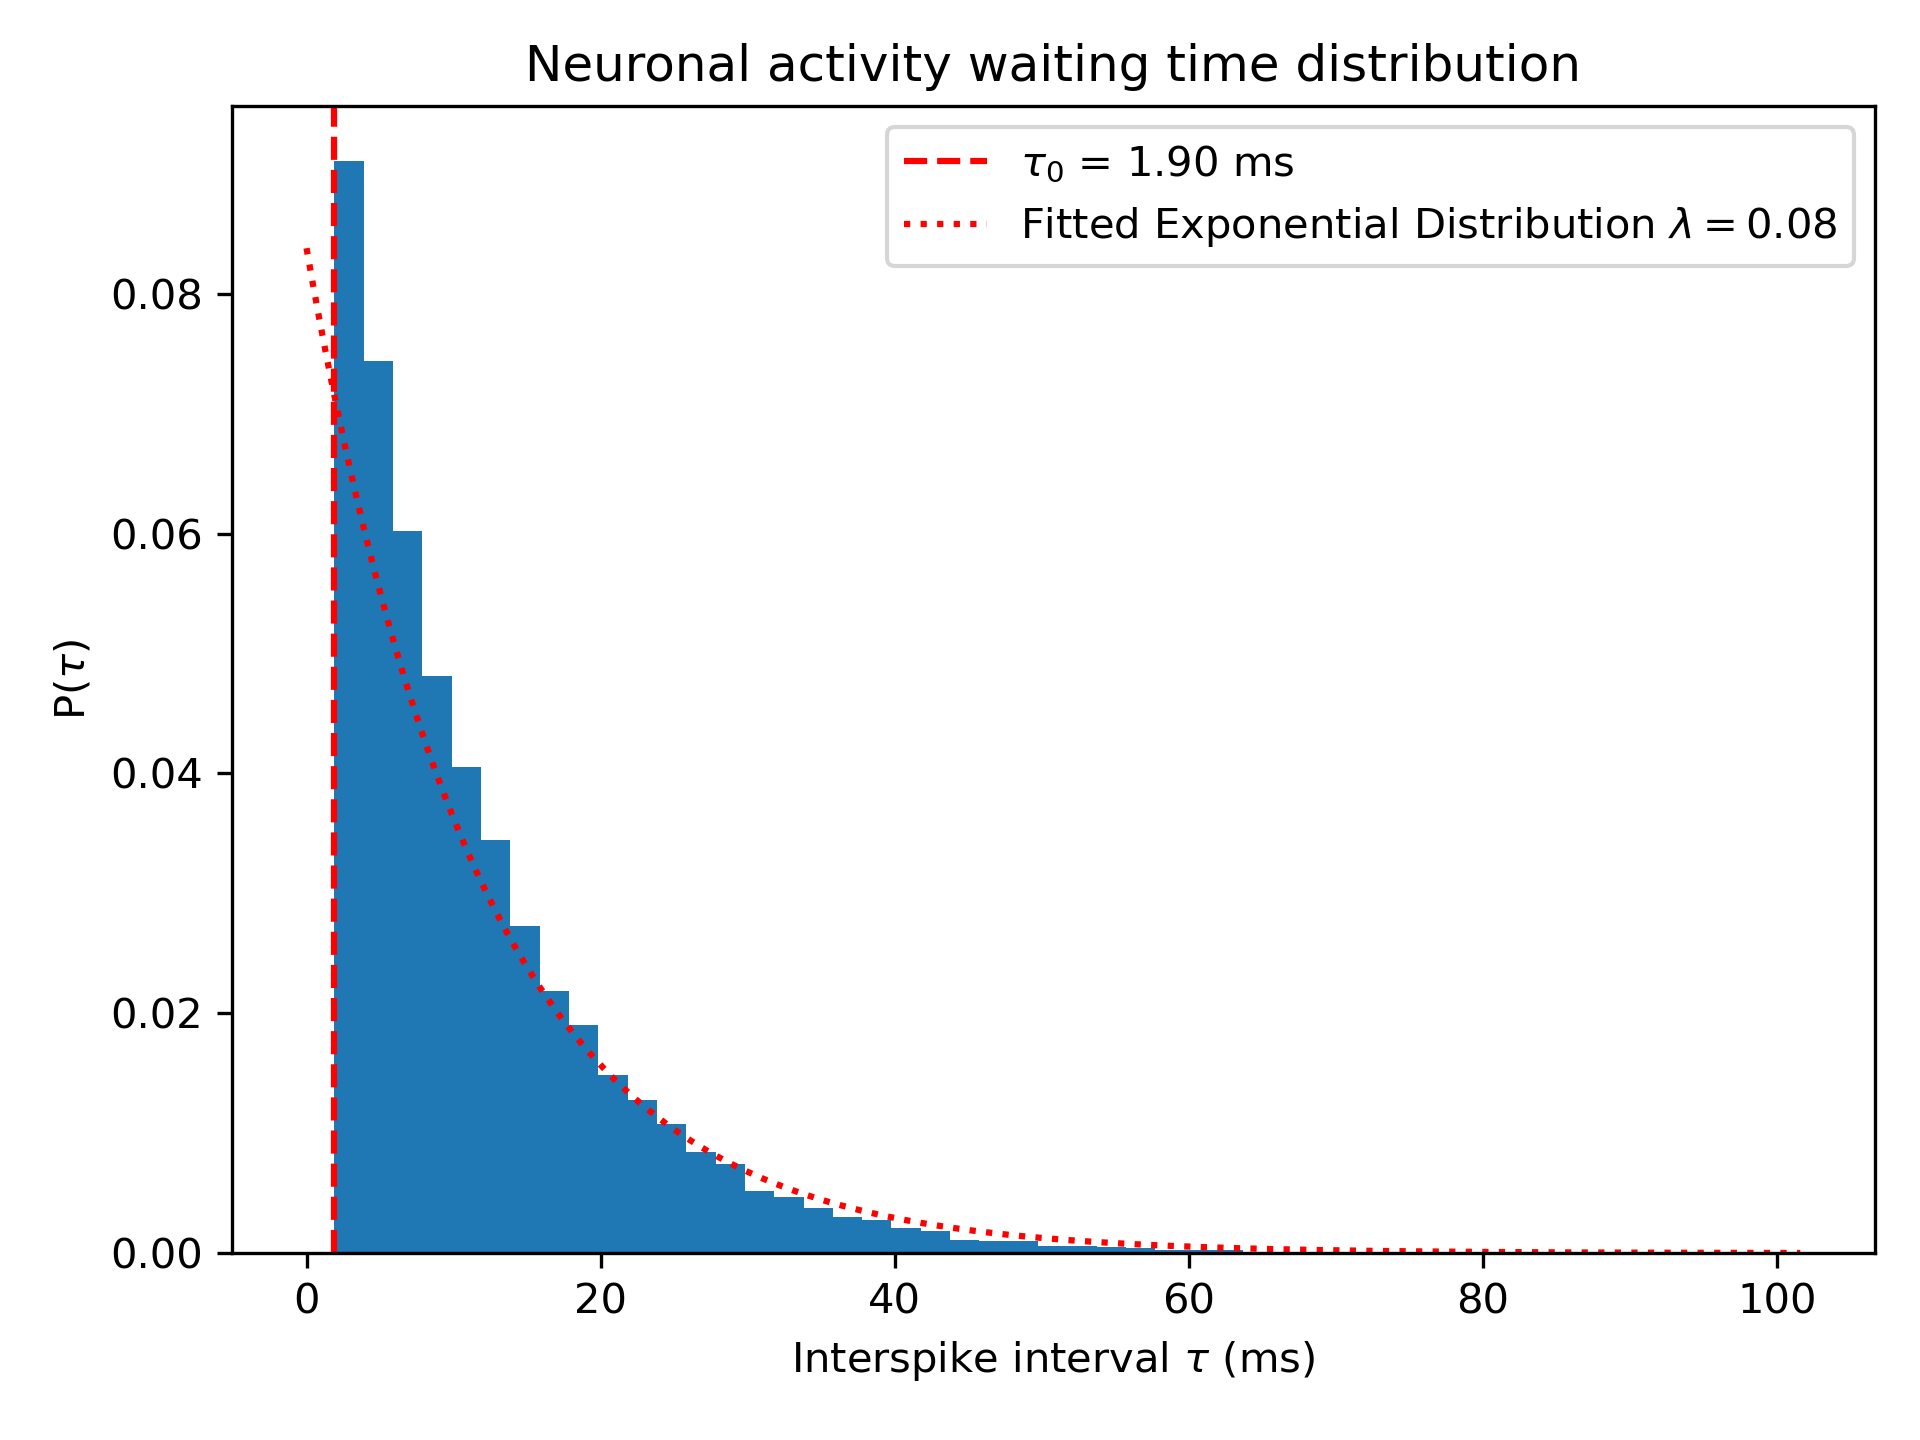
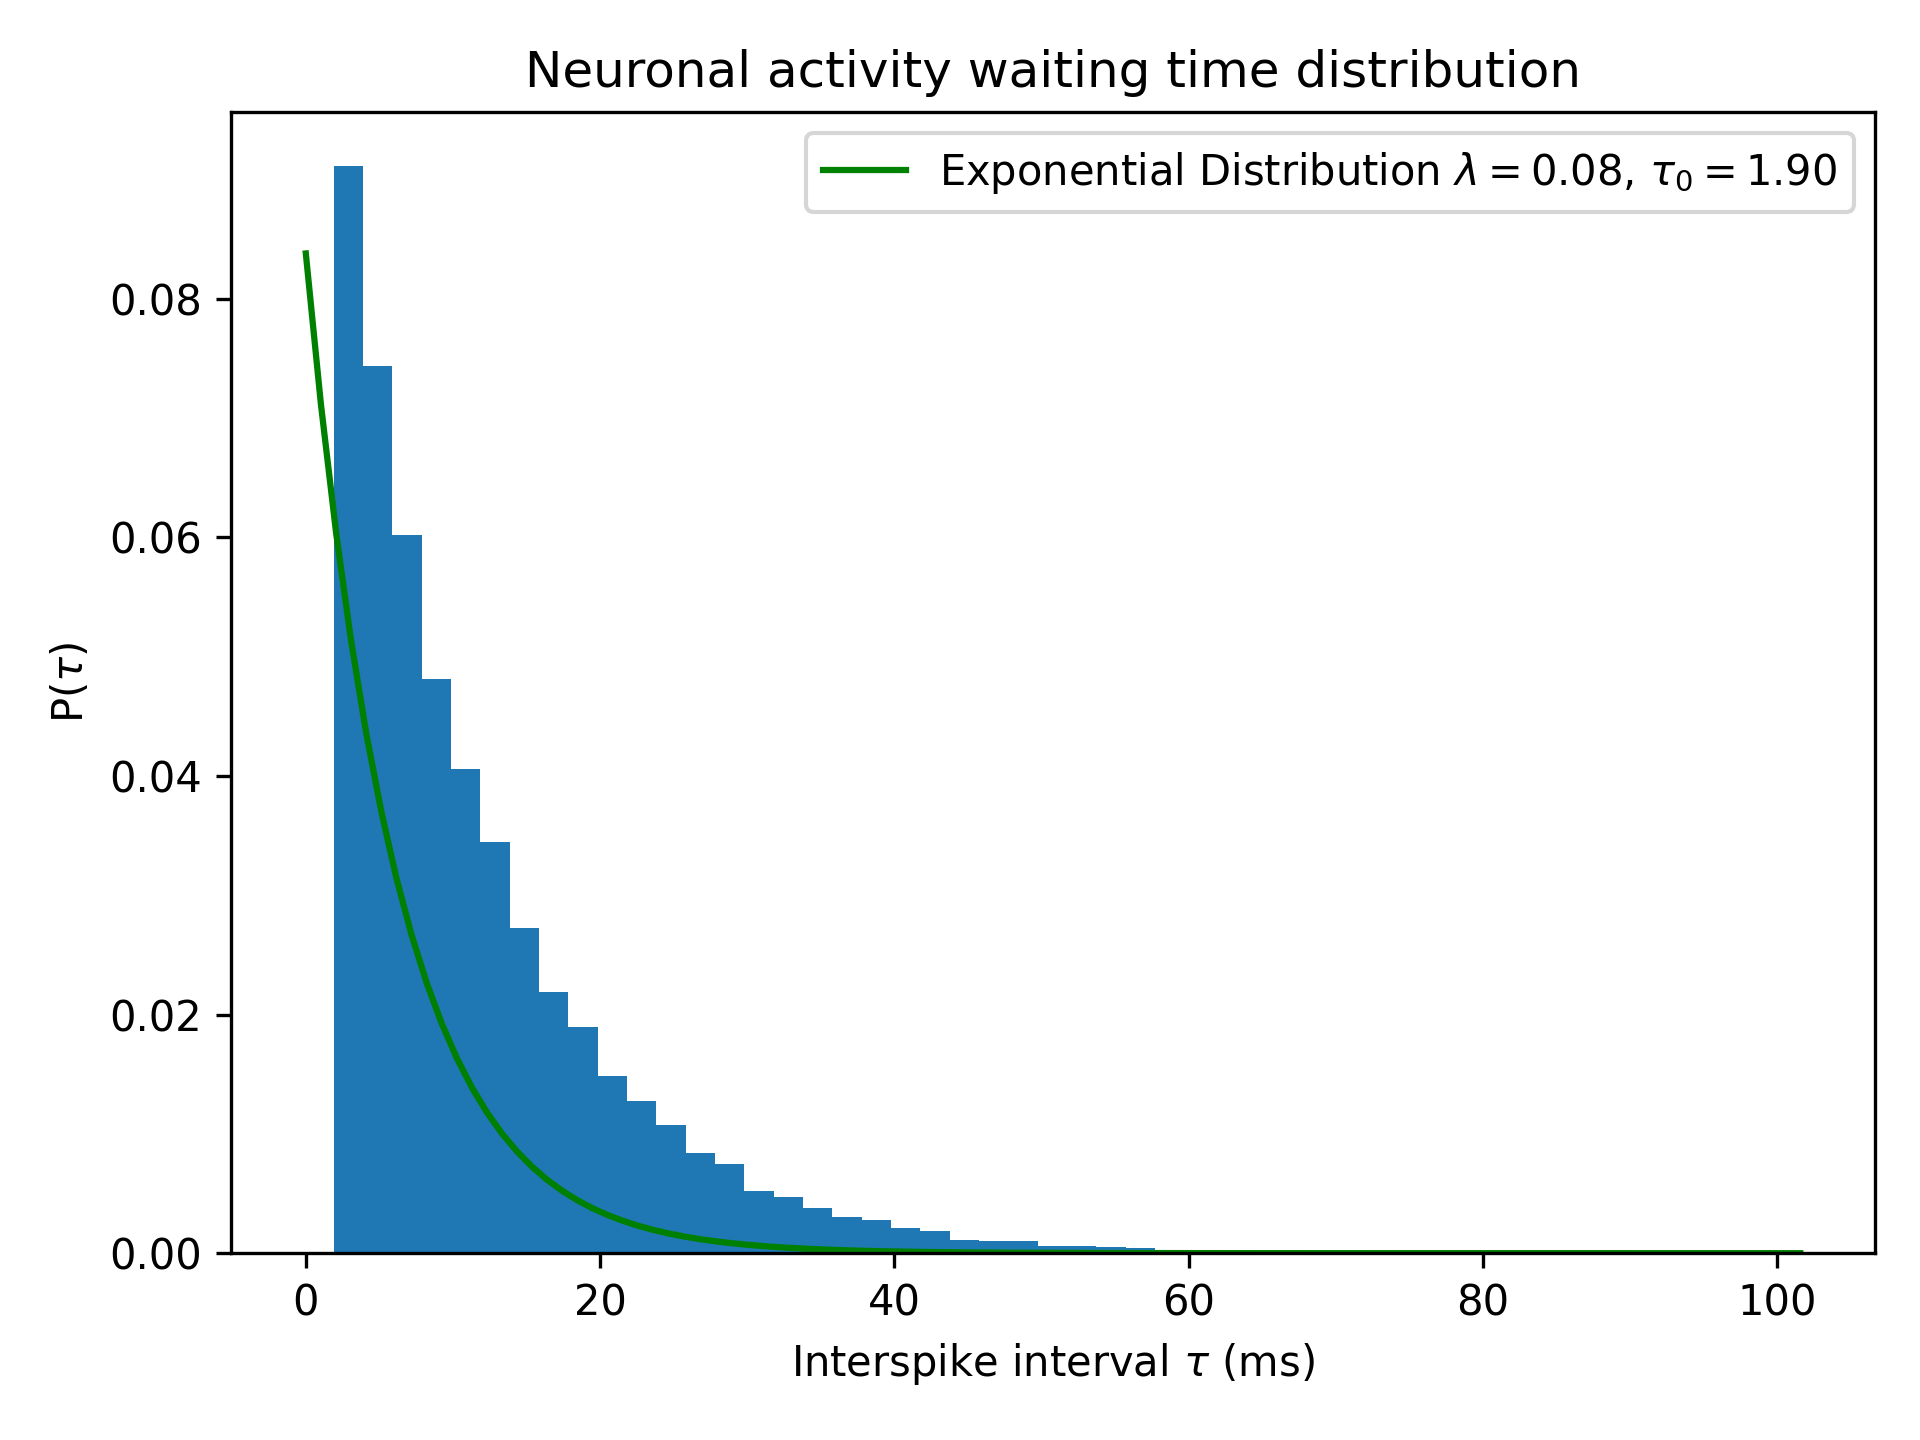
update to Q3

diff --git a/main.py b/main.py
@@ -101,7 +101,7 @@ def calculate_lambda(waiting_time: np.ndarray) -> float:
     return lambda_estimate
 
 
-def get_pdf(waiting_time: np.ndarray) -> tuple:
+def fit_pdf(waiting_time: np.ndarray) -> tuple:
     """
     Get the probability density function (PDF) of the fitted exponential distribution.
 
@@ -123,8 +123,9 @@ def plot_waiting_time_distribution(
     waiting_time: np.ndarray,
     tau0: float,
     lambda_estimate: float,
-    pdf_fitted: np.ndarray,
-    x: np.ndarray,
+    enable_tau0: bool = False,
+    enable_exponential_fit: bool = False,
+    enable_exponential_distribution: bool = False,
     save: bool = False,
 ) -> None:
     """
@@ -134,9 +135,11 @@ def plot_waiting_time_distribution(
     ------
     - waiting_time (np.ndarray): The waiting time for each neuron.
     - tau0 (float): The minimum waiting time.
+    - tau (np.ndarray): The x values for the PDF.
     - lambda_estimate (float): The lambda parameter for the exponential distribution.
     - pdf_fitted (np.ndarray): The PDF values of the fitted exponential distribution.
-    - x (np.ndarray): The x values for the PDF.
+    - pdf_values (np.ndarray): The PDF values of the exponential distribution.
+
     - save (bool): Whether to save the plot.
     """
     plt.hist(
@@ -144,15 +147,33 @@ def plot_waiting_time_distribution(
         bins=50,
         density=True,
     )
-    plt.axvline(tau0, color="red", linestyle="--", label=f"$\\tau_0$ = {tau0:.2f} ms")
 
-    plt.plot(
-        x,
-        pdf_fitted,
-        color="red",
-        linestyle=":",
-        label=f"Fitted Exponential Distribution $\\lambda={lambda_estimate:.2f}$",
-    )
+    if enable_tau0:
+        plt.axvline(
+            tau0, color="red", linestyle="--", label=f"$\\tau_0$ = {tau0:.2f} ms"
+        )
+
+    if enable_exponential_fit:
+        tau, pdf_fitted = fit_pdf(waiting_time)
+        plt.plot(
+            tau,
+            pdf_fitted,
+            color="red",
+            linestyle=":",
+            label=f"Fitted Exponential Distribution $\\lambda={lambda_estimate:.2f}$",
+        )
+
+    if enable_exponential_distribution:
+        tau = np.linspace(0, max(waiting_time), 100)
+        pdf_values = pdf(lambda_estimate, tau0, tau)
+
+        plt.plot(
+            tau,
+            pdf_values,
+            color="green",
+            linestyle="-",
+            label=f"Exponential Distribution $\\lambda={lambda_estimate:.2f}$, $\\tau_0={tau0:.2f}$",
+        )
 
     plt.xlabel(r"Interspike interval $\tau$ (ms)")
     plt.ylabel(r"P($\tau$)")
@@ -168,6 +189,11 @@ def plot_waiting_time_distribution(
         plt.show()
 
 
+def pdf(lambda_param, tau0, tau):
+    value = lambda_param * np.exp(-lambda_param * (tau * tau0))
+    return value
+
+
 def main():
     data = load_data("Data_neuron.txt")
     waiting_time = calculate_waiting_time(data)
@@ -175,9 +201,12 @@ def main():
 
     tau0 = calculate_tau0(waiting_time)
     lambda_estimate = calculate_lambda(waiting_time)
-    x, pdf = get_pdf(waiting_time)
     plot_waiting_time_distribution(
-        waiting_time, tau0, lambda_estimate, pdf, x, save=True
+        waiting_time,
+        tau0,
+        lambda_estimate,
+        save=True,
+        enable_exponential_distribution=True,
     )
 
 
